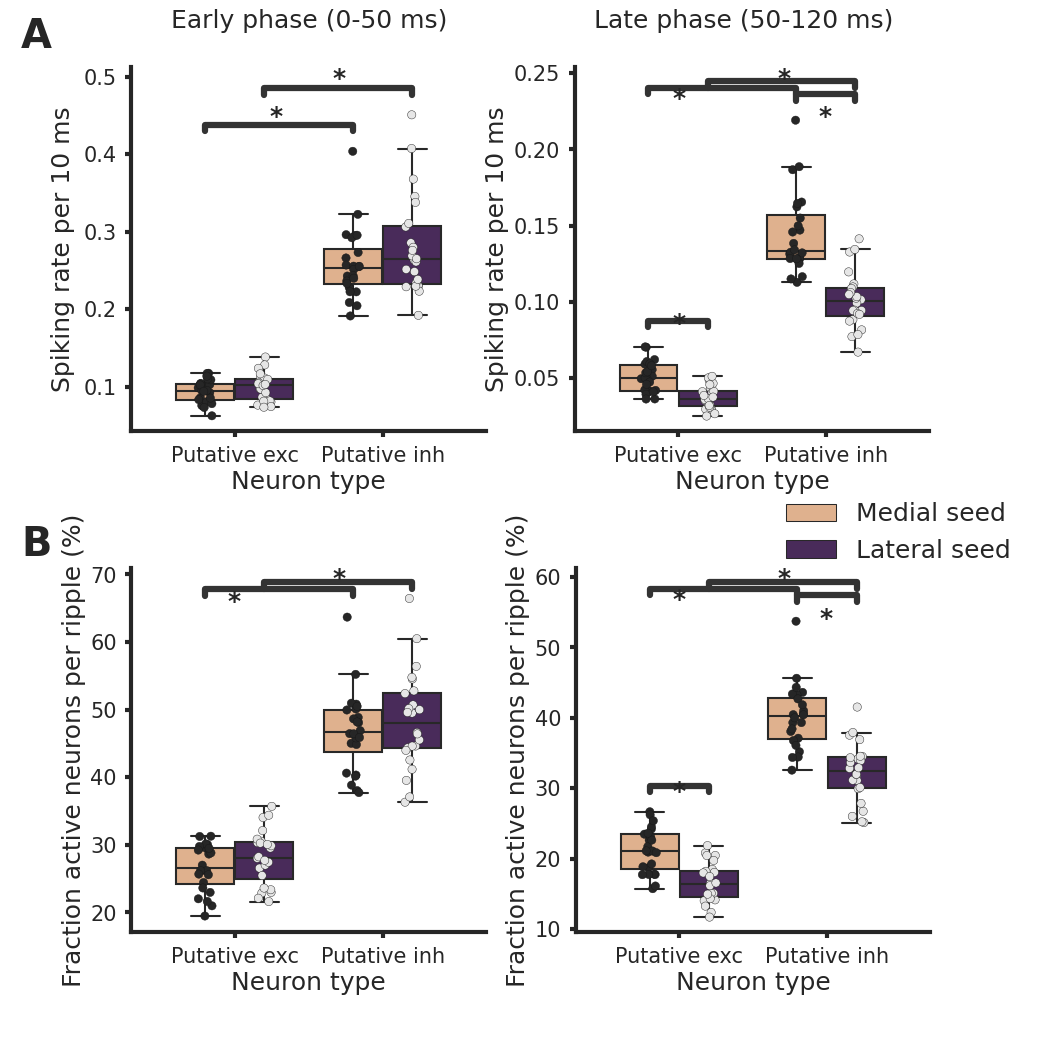
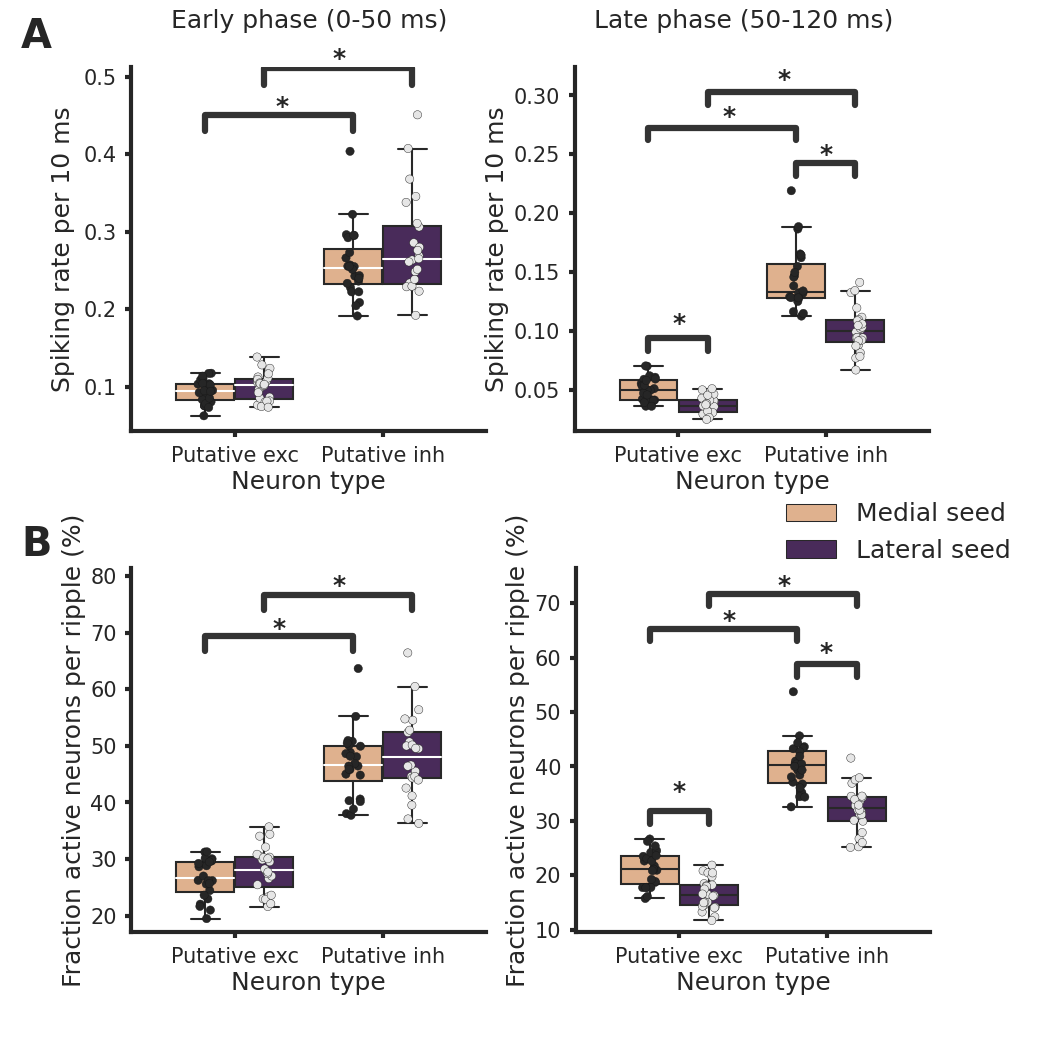
fix Figure 4-Supplementary Figure 3

diff --git a/Figures/Supplementary/Supplementary_Figure_clusters_per_ripple_and_spiking_rate_early_late_exc_inh.py b/Figures/Supplementary/Supplementary_Figure_clusters_per_ripple_and_spiking_rate_early_late_exc_inh.py
@@ -20,7 +20,6 @@ plt.figure(1).axes[2].set_ylim(0.043275815698154654, 0.5121126146247941)
 plt.figure(1).axes[2].set_yticks([0.1, 0.2, 0.30000000000000004, 0.4, 0.5])
 plt.figure(1).axes[2].set_yticklabels(["0.1", "0.2", "0.3", "0.4", "0.5"], fontsize=5)
 plt.figure(1).axes[2].set_position([0.125000, 0.589969, 0.337458, 0.345966])
-plt.figure(1).axes[2].yaxis.labelpad = -0.721239
 plt.figure(1).axes[2].yaxis.labelpad = 2.0
 plt.figure(1).axes[3].set_position([0.546621, 0.589969, 0.337458, 0.345966])
 plt.figure(1).text(0.5, 0.5, 'New Text', transform=plt.figure(1).transFigure)  # id=plt.figure(1).texts[0].new
@@ -41,56 +40,16 @@ plt.figure(1).texts[3].set_fontsize(6)
 plt.figure(1).texts[3].set_ha("center")
 plt.figure(1).texts[3].set_position([0.707635, 0.973451])
 plt.figure(1).texts[3].set_text("Late phase (50-120 ms)")
-plt.figure(1).text(0.5, 0.5, 'New Text', transform=plt.figure(1).transFigure)  # id=plt.figure(1).texts[4].new
-plt.figure(1).texts[4].set_fontsize(6)
-plt.figure(1).texts[4].set_position([0.316372, 0.442478])
-plt.figure(1).texts[4].set_text("*")
-plt.figure(1).texts[4].set_weight("bold")
-plt.figure(1).text(0.5, 0.5, 'New Text', transform=plt.figure(1).transFigure)  # id=plt.figure(1).texts[5].new
-plt.figure(1).texts[5].set_fontsize(6)
-plt.figure(1).texts[5].set_position([0.740044, 0.442478])
-plt.figure(1).texts[5].set_text("*")
-plt.figure(1).texts[5].set_weight("bold")
-plt.figure(1).text(0.5, 0.5, 'New Text', transform=plt.figure(1).transFigure)  # id=plt.figure(1).texts[6].new
-plt.figure(1).texts[6].set_fontsize(6)
-plt.figure(1).texts[6].set_position([0.316372, 0.918142])
-plt.figure(1).texts[6].set_text("*")
-plt.figure(1).texts[6].set_weight("bold")
-plt.figure(1).text(0.5, 0.5, 'New Text', transform=plt.figure(1).transFigure)  # id=plt.figure(1).texts[7].new
-plt.figure(1).texts[7].set_fontsize(6)
-plt.figure(1).texts[7].set_position([0.740044, 0.918142])
-plt.figure(1).texts[7].set_text("*")
-plt.figure(1).texts[7].set_weight("bold")
-plt.figure(1).text(0.5, 0.5, 'New Text', transform=plt.figure(1).transFigure)  # id=plt.figure(1).texts[8].new
-plt.figure(1).texts[8].set_fontsize(6)
-plt.figure(1).texts[8].set_position([0.216817, 0.420354])
-plt.figure(1).texts[8].set_text("*")
-plt.figure(1).texts[8].set_weight("bold")
-plt.figure(1).text(0.5, 0.5, 'New Text', transform=plt.figure(1).transFigure)  # id=plt.figure(1).texts[9].new
-plt.figure(1).texts[9].set_fontsize(6)
-plt.figure(1).texts[9].set_position([0.639385, 0.422089])
-plt.figure(1).texts[9].set_text("*")
-plt.figure(1).texts[9].set_weight("bold")
-plt.figure(1).text(0.5, 0.5, 'New Text', transform=plt.figure(1).transFigure)  # id=plt.figure(1).texts[10].new
-plt.figure(1).texts[10].set_fontsize(6)
-plt.figure(1).texts[10].set_position([0.779868, 0.404289])
-plt.figure(1).texts[10].set_text("*")
-plt.figure(1).texts[10].set_weight("bold")
-plt.figure(1).text(0.5, 0.5, 'New Text', transform=plt.figure(1).transFigure)  # id=plt.figure(1).texts[11].new
-plt.figure(1).texts[11].set_fontsize(6)
-plt.figure(1).texts[11].set_position([0.256637, 0.881637])
-plt.figure(1).texts[11].set_text("*")
-plt.figure(1).texts[11].set_weight("bold")
-plt.figure(1).text(0.5, 0.5, 'New Text', transform=plt.figure(1).transFigure)  # id=plt.figure(1).texts[12].new
-plt.figure(1).texts[12].set_fontsize(6)
-plt.figure(1).texts[12].set_position([0.778761, 0.881637])
-plt.figure(1).texts[12].set_text("*")
-plt.figure(1).texts[12].set_weight("bold")
-plt.figure(1).text(0.5, 0.5, 'New Text', transform=plt.figure(1).transFigure)  # id=plt.figure(1).texts[13].new
-plt.figure(1).texts[13].set_fontsize(6)
-plt.figure(1).texts[13].set_position([0.639385, 0.898740])
-plt.figure(1).texts[13].set_text("*")
-plt.figure(1).texts[13].set_weight("bold")
+plt.figure(1).text(0.316372, 0.43605951476251564, '*', transform=plt.figure(1).transFigure, fontsize=6.0, weight='bold')  # id=plt.figure(1).texts[4].new
+plt.figure(1).text(0.7400439999999998, 0.4360595147625157, '*', transform=plt.figure(1).transFigure, fontsize=6.0, weight='bold')  # id=plt.figure(1).texts[5].new
+plt.figure(1).text(0.316372, 0.9373974557124495, '*', transform=plt.figure(1).transFigure, fontsize=6.0, weight='bold')  # id=plt.figure(1).texts[6].new
+plt.figure(1).text(0.7400439999999999, 0.9168583029525033, '*', transform=plt.figure(1).transFigure, fontsize=6.0, weight='bold')  # id=plt.figure(1).texts[7].new
+plt.figure(1).text(0.25920439409499346, 0.3951313620025668, '*', transform=plt.figure(1).transFigure, fontsize=6.0, weight='bold')  # id=plt.figure(1).texts[8].new
+plt.figure(1).text(0.6872285, 0.4028335442875478, '*', transform=plt.figure(1).transFigure, fontsize=6.0, weight='bold')  # id=plt.figure(1).texts[9].new
+plt.figure(1).text(0.7798679999999995, 0.37219657381257987, '*', transform=plt.figure(1).transFigure, fontsize=6.0, weight='bold')  # id=plt.figure(1).texts[10].new
+plt.figure(1).text(0.261771788189987, 0.8919065763799722, '*', transform=plt.figure(1).transFigure, fontsize=6.0, weight='bold')  # id=plt.figure(1).texts[11].new
+plt.figure(1).text(0.7798679999999995, 0.8456934826700876, '*', transform=plt.figure(1).transFigure, fontsize=6.0, weight='bold')  # id=plt.figure(1).texts[12].new
+plt.figure(1).text(0.6872285, 0.8816369999999999, '*', transform=plt.figure(1).transFigure, fontsize=6.0, weight='bold')  # id=plt.figure(1).texts[13].new
 plt.figure(1).text(0.5, 0.5, 'New Text', transform=plt.figure(1).transFigure)  # id=plt.figure(1).texts[14].new
 plt.figure(1).texts[14].set_fontsize(6)
 plt.figure(1).texts[14].set_position([0.639385, 0.239655])

diff --git a/Figures/Supplementary/Panel_clusters_per_ripple_early_late_by_neuron_type.py b/Figures/Supplementary/Panel_clusters_per_ripple_early_late_by_neuron_type.py
@@ -26,12 +26,17 @@ fig, axs = plt.subplots(1,2,figsize=(16,8))
 data=summary_fraction_active_clusters_per_ripples_early_by_neuron_type.groupby(["Neuron type", "Session id", "Location seed"]).mean().reset_index()
 data["Fraction active neurons per ripple (%)"] = data["Fraction active neurons per ripple (%)"] * 100
 
+
+PROPS = {
+    'medianprops':{'color':'white'},
+}
+
 hue = "Location seed"
 y = "Fraction active neurons per ripple (%)"
 x = "Neuron type"
 hue_order = ["Medial seed", "Lateral seed"]
 order = ["Putative exc", "Putative inh"]
-ax = sns.boxplot(data=data, x=x, y=y, palette=palette_ML, hue=hue,  ax=axs[0],showfliers=False, order=order, hue_order=hue_order)
+ax = sns.boxplot(data=data, x=x, y=y, palette=palette_ML, hue=hue,  ax=axs[0],showfliers=False, order=order, hue_order=hue_order, **PROPS)
 ax.get_legend().remove()
 
 ax = sns.stripplot(data=data, x=x, y=y, hue=hue, ax=axs[0],  dodge=True, size=2,
@@ -80,7 +85,7 @@ if pvalues.shape[0]>0:
     annot = Annotator(ax, pairs=pairs, data=data,
                       hue=hue, y=y, x=x, hue_order=hue_order, order=order)
     (annot
-     .configure(test=None, test_short_name="custom test",  text_format='star', loc='inside', verbose=0, text_offset=0)
+     .configure(test=None, test_short_name="custom test",  text_format='star', loc='inside', verbose=0, line_height=0.05,  line_offset=20, text_offset=20)
      .set_pvalues(pvalues=pvalues)
      .set_custom_annotations([""]*len(pvalues))
      .annotate())
@@ -147,7 +152,7 @@ if pvalues.shape[0]>0:
     annot = Annotator(ax, pairs=pairs, data=data,
                       hue=hue, y=y, x=x, hue_order=hue_order, order=order)
     (annot
-     .configure(test=None, test_short_name="custom test",  text_format='star', loc='inside', verbose=0, text_offset=0)
+     .configure(test=None, test_short_name="custom test",  text_format='star', loc='inside', verbose=0, line_height=0.05,  line_offset=20, text_offset=20)
      .set_pvalues(pvalues=pvalues)
      .set_custom_annotations([""]*len(pvalues))
      .annotate())

diff --git a/Figures/Supplementary/Panel_spiking_rate_early_late_by_neuron_type.py b/Figures/Supplementary/Panel_spiking_rate_early_late_by_neuron_type.py
@@ -31,6 +31,9 @@ def neuron_classifier(row):
 
 fig, axs = plt.subplots(1, 2, figsize=(16, 8))
 
+PROPS = {
+    'medianprops':{'color':'white'},
+}
 tot_summary_early["Neuron type"] = tot_summary_early.apply(neuron_classifier, axis=1)
 tot_summary_late["Neuron type"] = tot_summary_late.apply(neuron_classifier, axis=1)
 
@@ -47,7 +50,7 @@ x="Neuron type"
 hue_order=["Medial seed", "Lateral seed"]
 order=["Putative exc", "Putative inh"]
 ax = sns.boxplot(data=data, x=x, y=y, hue=hue, showfliers=False, ax=axs[0], palette=palette_ML,
-            order=order, hue_order=hue_order)
+            order=order, hue_order=hue_order, **PROPS)
 
 ax.get_legend().remove()
 
@@ -103,7 +106,7 @@ if pvalues.shape[0]>0:
     annot = Annotator(ax, pairs=pairs, data=data,
                       hue=hue, y=y, x=x, hue_order=hue_order, order=order)
     (annot
-     .configure(test=None, test_short_name="custom test",  text_format='star', loc='inside', verbose=0, text_offset=0)
+     .configure(test=None, test_short_name="custom test",  text_format='star', loc='inside', verbose=0, line_height=0.05,  line_offset=20, text_offset=20)
      .set_pvalues(pvalues=pvalues)
      .set_custom_annotations([""]*len(pvalues))
      .annotate())
@@ -183,7 +186,7 @@ if pvalues.shape[0]>0:
     annot = Annotator(ax, pairs=pairs, data=data,
                       hue=hue, y=y, x=x, hue_order=hue_order, order=order)
     (annot
-     .configure(test=None, test_short_name="custom test",  text_format='star', loc='inside', verbose=0, text_offset=0)
+     .configure(test=None, test_short_name="custom test",  text_format='star', loc='inside', verbose=0, line_height=0.05, line_offset=20, text_offset=20)
      .set_pvalues(pvalues=pvalues)
      .set_custom_annotations([""]*len(pvalues))
      .annotate())
